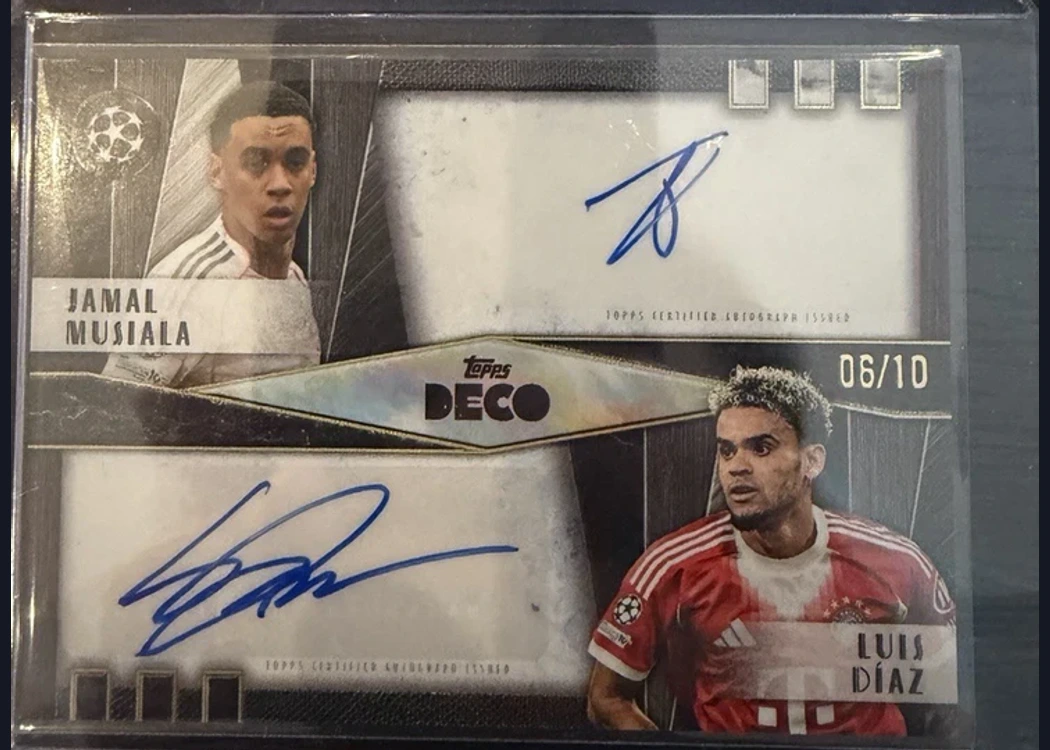
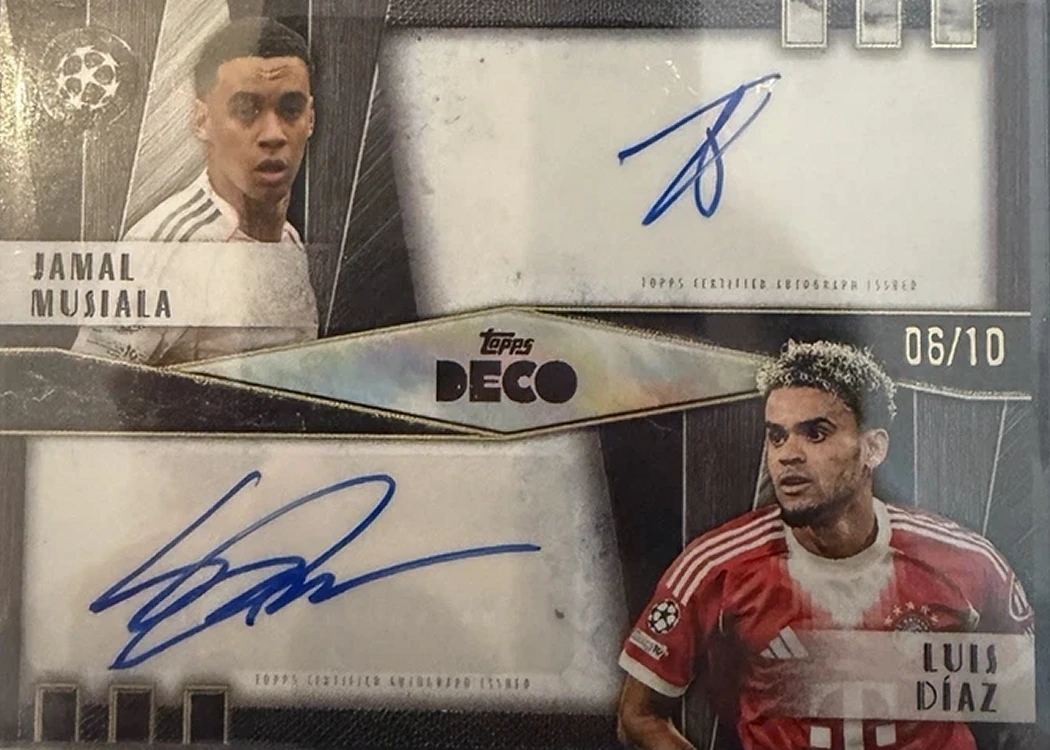
fix: refine Topps Deco card images

diff --git a/tests/catalogue.test.ts b/tests/catalogue.test.ts
@@ -173,6 +173,7 @@ const decoUccDesigns = [
   "triple-autographs",
   "antiquity-autograph-relics",
   "prodigy-autographs",
+  "only1-autographs",
 ];
 const decoLandscapeDesigns = [
   "dual-autographs",
@@ -1179,13 +1180,22 @@ describe("Topps Inception UEFA Club Competitions 2025-26 catalogue", () => {
 });
 
 describe("Topps Deco UEFA Club Competitions 2025-26 catalogue", () => {
-  it("publishes the 22 reviewed visual families and omits the unpictured Only1 chase", () => {
+  it("publishes all 23 known visual families and keeps Only1 as an unverified placeholder", () => {
     const series = getSeries(decoUccSlug);
 
     expect(series?.cardDesigns.map((card) => card.slug)).toEqual(decoUccDesigns);
-    expect(series?.cardDesigns).toHaveLength(22);
-    expect(series?.totalVariants).toBe(22);
-    expect(series?.cardDesigns.some((card) => card.slug.includes("only1"))).toBe(false);
+    expect(series?.cardDesigns).toHaveLength(23);
+    expect(series?.totalVariants).toBe(23);
+    expect(series?.cardDesigns.find((card) => card.slug === "only1-autographs")).toMatchObject({
+      officialName: "Only1 Autographs",
+      serial: "1/1",
+      image: { verification: "unverified" },
+      curatorNote: {
+        "zh-CN": "官方已确认该神秘 1/1 卡种，但人物与实卡图尚未公开。",
+        en: "Topps has confirmed this mystery 1/1 card type, but its subject and physical card image have not been revealed.",
+        es: "Topps ha confirmado este misterioso tipo de carta 1/1, pero aún no se han revelado su protagonista ni una imagen de la carta física.",
+      },
+    });
     expect(validateSeries(series!)).toEqual([]);
   });
 
@@ -1217,7 +1227,7 @@ describe("Topps Deco UEFA Club Competitions 2025-26 catalogue", () => {
       .map((card) => card.slug)).toEqual(decoLandscapeDesigns);
   });
 
-  it("uses normalized exact local images for the packaging and all displayed cards", async () => {
+  it("uses normalized exact local images for every photographed card and no fake image for Only1", async () => {
     const series = getSeries(decoUccSlug);
 
     expect(series).toBeDefined();
@@ -1229,7 +1239,12 @@ describe("Topps Deco UEFA Club Competitions 2025-26 catalogue", () => {
     const packaging = await sharp(packagingPath).metadata();
     expect({ width: packaging.width, height: packaging.height }).toEqual({ width: 1050, height: 750 });
 
-    for (const card of series.cardDesigns) {
+    const only1 = series.cardDesigns.find((card) => card.slug === "only1-autographs");
+    expect(only1?.image.verification).toBe("unverified");
+
+    const photographed = series.cardDesigns.filter((card) => card.image.verification === "exact");
+    expect(photographed).toHaveLength(22);
+    for (const card of photographed) {
       expect(card.image.verification, card.slug).toBe("exact");
       const imagePath = path.join(process.cwd(), "public", card.image.path);
       expect(fs.existsSync(imagePath), card.slug).toBe(true);

diff --git a/data/catalogue.ts b/data/catalogue.ts
@@ -1241,6 +1241,8 @@ type DecoCardInput = {
   displayParallelName?: string;
   parallels?: CardDesign["parallels"];
   layout?: CardDesign["layout"];
+  verification?: "exact" | "unverified";
+  curatorNote?: LocalizedText;
 };
 
 const decoCard = ({
@@ -1254,6 +1256,8 @@ const decoCard = ({
   displayParallelName,
   parallels,
   layout,
+  verification = "exact",
+  curatorNote,
 }: DecoCardInput): CardDesign => ({
   slug,
   officialName,
@@ -1264,9 +1268,10 @@ const decoCard = ({
   displayParallelName,
   parallels,
   layout,
+  curatorNote,
   image: {
     path: `images/topps-deco-ucc-2025-26/cards/${slug}.webp`,
-    verification: "exact",
+    verification,
     alt: names(
       `2025/26 Topps Deco 欧足联俱乐部赛事 ${zh}代表卡`,
       `2025/26 Topps Deco UEFA Club Competitions ${officialName} representative card`,
@@ -1315,6 +1320,21 @@ const decoUccCardDesigns: CardDesign[] = [
   decoCard({ slug: "triple-autographs", officialName: "Triple Autographs", zh: "三人签字", es: "Autógrafos triples", serial: "1/1", displayParallelName: "Gold" }),
   decoCard({ slug: "antiquity-autograph-relics", officialName: "Antiquity Autograph Relics", zh: "古典签字实物", es: "Reliquias autografiadas Antiquity", serial: "/25", displayParallelName: "Orange", layout: "landscape" }),
   decoCard({ slug: "prodigy-autographs", officialName: "Prodigy Autographs", zh: "天才新星签字", es: "Autógrafos Prodigy", serial: "/99", displayParallelName: "Blue" }),
+  decoCard({
+    slug: "only1-autographs",
+    officialName: "Only1 Autographs",
+    zh: "唯一签字",
+    es: "Autógrafos Only1",
+    serial: "1/1",
+    displayParallelName: "Only1",
+    parallels: [{ name: "Only1", serial: "1/1" }],
+    verification: "unverified",
+    curatorNote: names(
+      "官方已确认该神秘 1/1 卡种，但人物与实卡图尚未公开。",
+      "Topps has confirmed this mystery 1/1 card type, but its subject and physical card image have not been revealed.",
+      "Topps ha confirmado este misterioso tipo de carta 1/1, pero aún no se han revelado su protagonista ni una imagen de la carta física.",
+    ),
+  }),
 ];
 
 export const toppsDecoUcc202526: CardSeries = {
@@ -1335,7 +1355,7 @@ export const toppsDecoUcc202526: CardSeries = {
       "Caja Hobby 2025/26 Topps Deco UEFA Club Competitions",
     ),
   },
-  totalVariants: 22,
+  totalVariants: 23,
   cardDesigns: decoUccCardDesigns,
 };
 

diff --git a/tests/desktopRoutes.test.ts b/tests/desktopRoutes.test.ts
@@ -17,7 +17,7 @@ it("enumerates the complete desktop route set", async () => {
   ]);
 
   const cards = await cardParams();
-  expect(cards).toHaveLength(263);
+  expect(cards).toHaveLength(264);
   expect(cards).toContainEqual({
     seriesSlug: "topps-merlin-premier-league-2026",
     cardSlug: "red-mojo",
@@ -65,6 +65,10 @@ it("enumerates the complete desktop route set", async () => {
   expect(cards).toContainEqual({
     seriesSlug: "topps-deco-ucc-2025-26",
     cardSlug: "antiquity-autograph-relics",
+  });
+  expect(cards).toContainEqual({
+    seriesSlug: "topps-deco-ucc-2025-26",
+    cardSlug: "only1-autographs",
   });
   expect(cards).toContainEqual({
     seriesSlug: "topps-real-madrid-team-set-2025-26",

diff --git a/scripts/rectify-topps-deco-ucc-assets.py b/scripts/rectify-topps-deco-ucc-assets.py
@@ -1,0 +1,109 @@
+from pathlib import Path
+
+import numpy as np
+from PIL import Image, ImageFilter, ImageOps
+
+
+PROJECT_ROOT = Path(__file__).resolve().parents[1]
+SOURCE_ROOT = PROJECT_ROOT.parents[1] / "research" / "topps-deco-ucc-2025-26" / "images"
+OUTPUT_ROOT = PROJECT_ROOT / "public" / "images" / "topps-deco-ucc-2025-26" / "cards"
+
+# Source filename, output slug, physical card corners (TL, TR, BR, BL), output size.
+# These six marketplace photos need projective correction; an axis-aligned crop
+# leaves the printed card frame visibly skewed or includes the holder/background.
+ASSETS = [
+    (
+        "04-then-now-yamal-ronaldinho.jpg",
+        "then-and-now",
+        [(190, 82), (819, 84), (878, 986), (135, 985)],
+        (750, 1050),
+    ),
+    (
+        "08-lnouvel-esprit-rio-ngumoha.jpg",
+        "l-nouvel-esprit",
+        [(299, 356), (1099, 357), (1038, 1415), (317, 1415)],
+        (750, 1050),
+    ),
+    (
+        "09-joueur-emblematique-baggio.webp",
+        "joueur-emblematique",
+        [(48, 48), (836, 47), (838, 1149), (50, 1151)],
+        (750, 1050),
+    ),
+    (
+        "11-cubist-messi-front-1.webp",
+        "cubist",
+        [(155, 26), (1450, 25), (1325, 1582), (307, 1582)],
+        (750, 1050),
+    ),
+    (
+        "18-dual-auto-musiala-luis-diaz.webp",
+        "dual-autographs",
+        [(91, 517), (758, 518), (762, 993), (92, 993)],
+        (1050, 750),
+    ),
+    (
+        "22-prodigy-auto-reigan-heskey.png",
+        "prodigy-autographs",
+        [(222, 46), (789, 47), (823, 891), (208, 891)],
+        (750, 1050),
+    ),
+]
+
+
+def perspective_coefficients(
+    output_corners: list[tuple[float, float]],
+    source_corners: list[tuple[float, float]],
+) -> tuple[float, ...]:
+    matrix = []
+    targets = []
+    for (output_x, output_y), (source_x, source_y) in zip(output_corners, source_corners):
+        matrix.append([
+            output_x,
+            output_y,
+            1,
+            0,
+            0,
+            0,
+            -source_x * output_x,
+            -source_x * output_y,
+        ])
+        targets.append(source_x)
+        matrix.append([
+            0,
+            0,
+            0,
+            output_x,
+            output_y,
+            1,
+            -source_y * output_x,
+            -source_y * output_y,
+        ])
+        targets.append(source_y)
+    return tuple(np.linalg.solve(np.asarray(matrix), np.asarray(targets)))
+
+
+def rectify(
+    source_path: Path,
+    source_corners: list[tuple[int, int]],
+    output_size: tuple[int, int],
+) -> Image.Image:
+    width, height = output_size
+    output_corners = [(0, 0), (width - 1, 0), (width - 1, height - 1), (0, height - 1)]
+    coefficients = perspective_coefficients(output_corners, source_corners)
+    with Image.open(source_path) as source:
+        source = ImageOps.exif_transpose(source).convert("RGB")
+        return source.transform(
+            output_size,
+            Image.Transform.PERSPECTIVE,
+            coefficients,
+            resample=Image.Resampling.BICUBIC,
+        ).filter(ImageFilter.UnsharpMask(radius=0.55, percent=45, threshold=3))
+
+
+OUTPUT_ROOT.mkdir(parents=True, exist_ok=True)
+for source_name, slug, corners, output_size in ASSETS:
+    output = rectify(SOURCE_ROOT / source_name, corners, output_size)
+    output_path = OUTPUT_ROOT / f"{slug}.webp"
+    output.save(output_path, "WEBP", quality=92, method=6)
+    print(f"Rectified {slug} ({output_size[0]}x{output_size[1]})")
